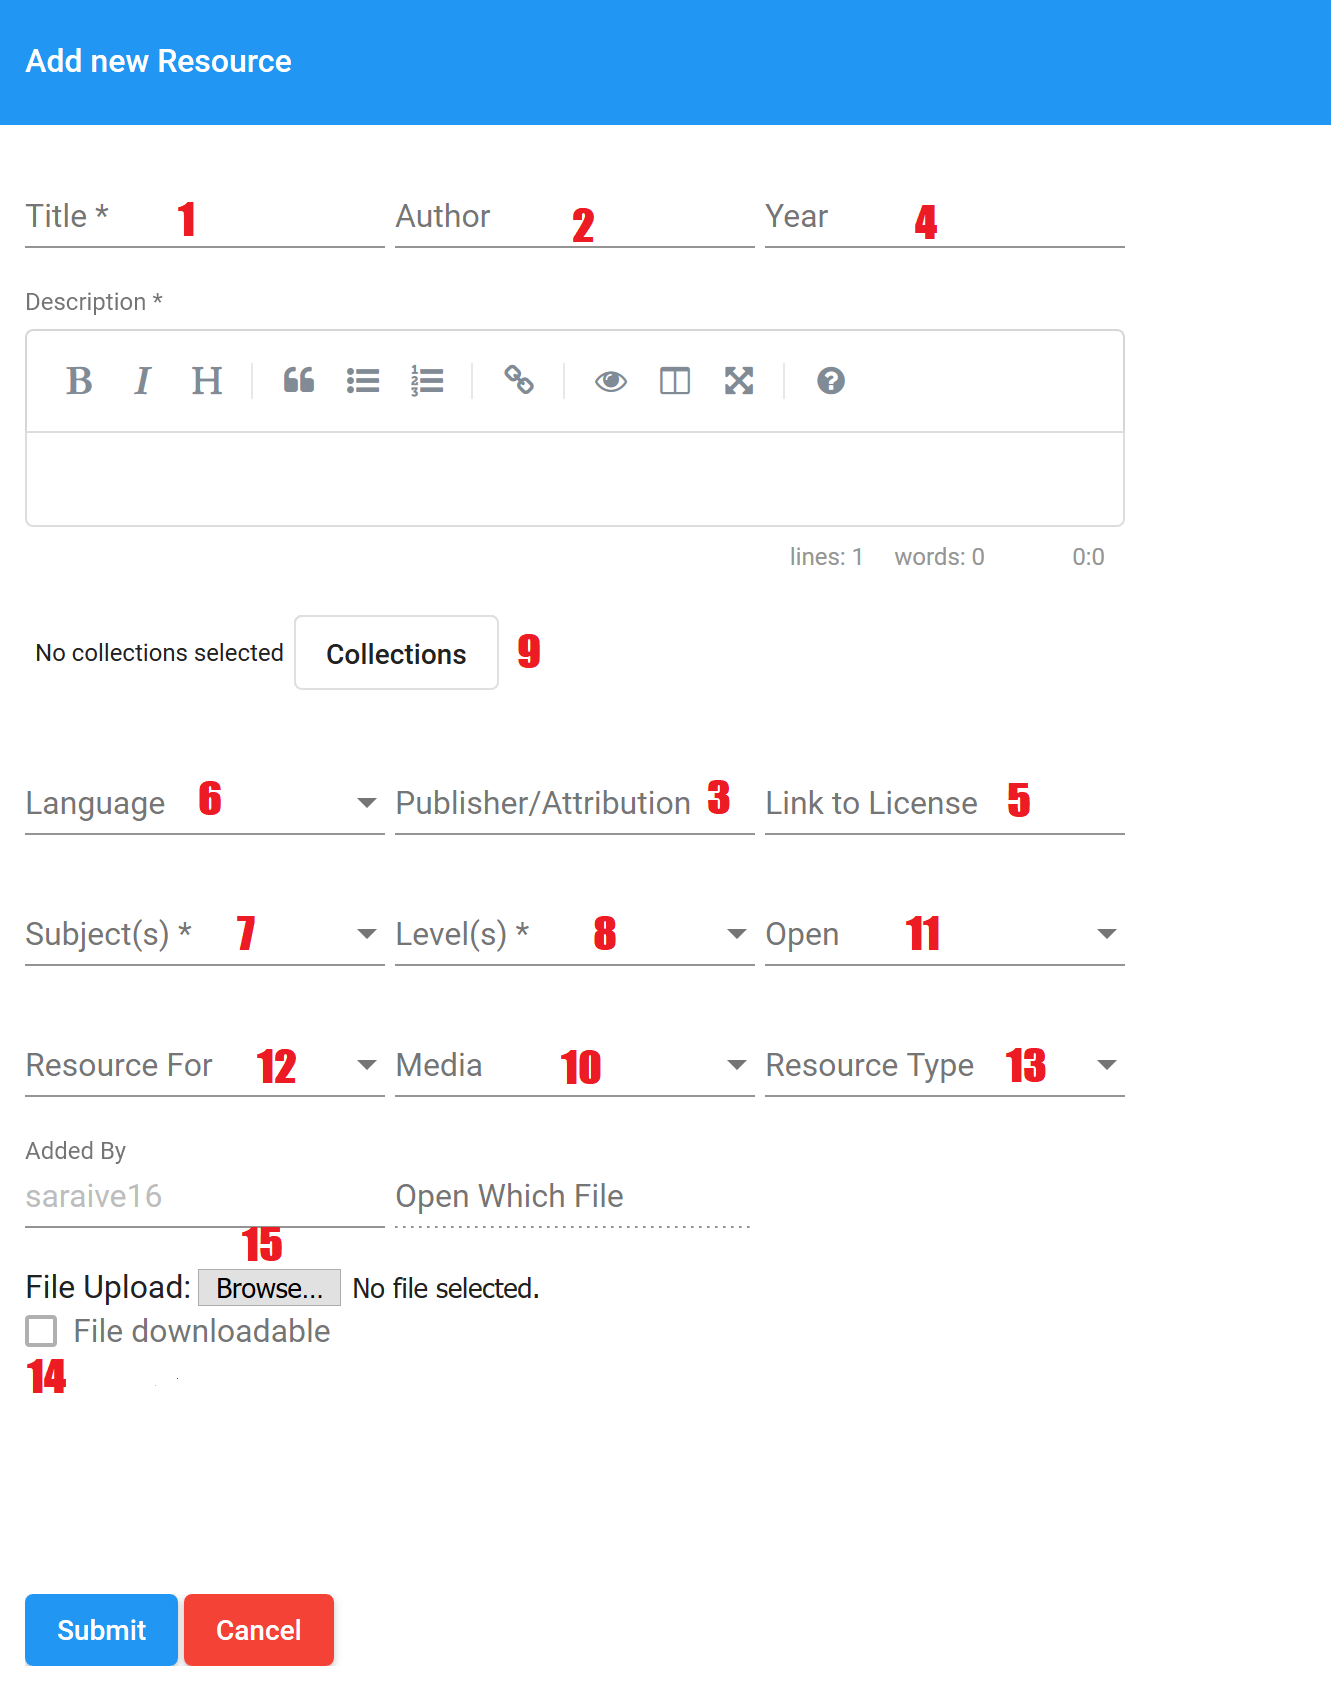
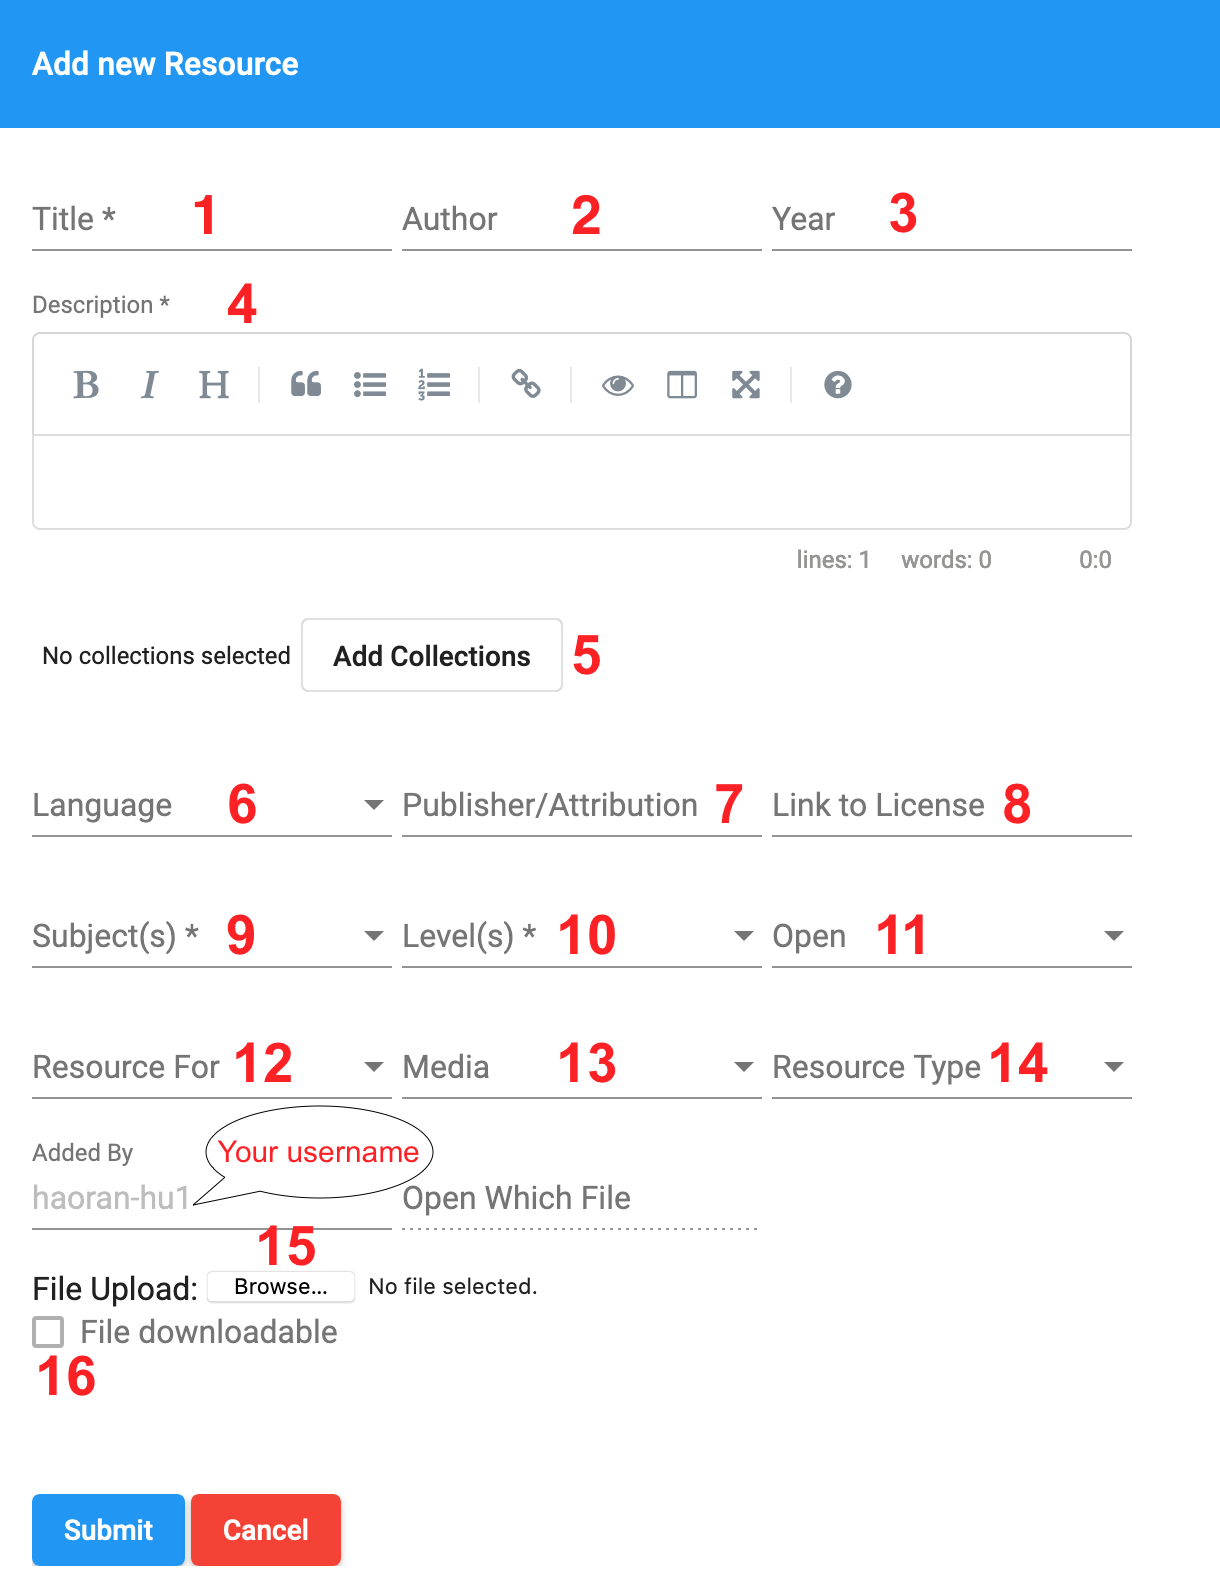
Update screenshot and corresponding content to match (fixes #2923)

diff --git a/pages/techgenius/tg-planet-user-manual.md b/pages/techgenius/tg-planet-user-manual.md
@@ -151,41 +151,42 @@ A collection is a group of Resources based on topic/subject and intended use. Pl
           a. A Tale of Two Cities
           b. A Tale of Two Cities (Spanish)
 
-2. Type the name of Author(s)/Editor. Authors should be listed as follows: “FIRST NAME, LAST NAME.” Illustrators, editors, translators, etc., should be identified in this section with their title in parentheses.
+2. Type the name of **_Author(s)/Editor_**. Authors should be listed as follows: “FIRST NAME, LAST NAME.” Illustrators, editors, translators, etc., should be identified in this section with their title in parentheses.
 
           a. John Doe
           b. Jane Doe (Translator)
 
+3. If available, type the **_Year_** in which the Resource was published.  
 
-3. **_Publisher/Attribution_** is mandatory for copyright purposes.  Please do not leave this field blank.  Type the name of the organization or publisher (and any websites associated with the Resource, if applicable).  Attribution allows OLE to use the source under Creative Commons or copyright and protects us from violating copyright laws.
+4. Add a **_description_** for the resource in the text area if applicable.  
 
-4. If available, type the **_Year_** in which the Resource was published.
-
-5. **_Link to License_** is also mandatory for copyright purposes. Locate the copyright information for the Resource. If it has a Creative Commons license, locate the correct license from the Creative Commons website and paste the URL in the Link to License field. Type “Public Domain” if the Resource is in the public domain.
+5. You may choose a **_Collection_** in which to place your Resource. Collections are more narrow than subjects in their scope. In many cases, you may find a Collection name that already exists and best fits your Resource. Use the search bar at the top of the drop down list to search for relevant Collections. If the Resource fits into more than one Collection, choose more than one. The “Add New” button next to Collection should be used only if a relevant existing Collection cannot be found. In most cases, Learners will not need to add new Collections.  
 
 6. In the **_Language field_**, choose the language of the Resource. If the Resource is a multilingual document, choose the language that you think is the primary or most applicable language.
 
-7. Choose one **_Subject_** from the drop down list that your Resource fits into. Subjects are broad and general so you may not find an exact match.
+7. **_Publisher/Attribution_** is mandatory for copyright purposes.  Please do not leave this field blank.  Type the name of the organization or publisher (and any websites associated with the Resource, if applicable).  Attribution allows OLE to use the source under Creative Commons or copyright and protects us from violating copyright laws.  
 
-8. Select at least one **_Level_** from the drop down list to assign to your Resource. Levels refer to the reading level required to be able to understand this Resource. You may choose multiple levels, but please ensure they actually apply to the reading level of the Resource.
+8. **_Link to License_** is also mandatory for copyright purposes. Locate the copyright information for the Resource. If it has a Creative Commons license, locate the correct license from the Creative Commons website and paste the URL in the Link to License field. Type “Public Domain” if the Resource is in the public domain.  
 
-9. You may choose a **_Collection_** in which to place your Resource. Collections are more narrow than subjects in their scope. In many cases, you may find a Collection name that already exists and best fits your Resource. Use the search bar at the top of the drop down list to search for relevant Collections. If the Resource fits into more than one Collection, choose more than one. The “Add New” button next to Collection should be used only if a relevant existing Collection cannot be found. In most cases, Learners will not need to add new Collections.
+9. Choose one **_Subject_** from the drop down list that your Resource fits into. Subjects are broad and general so you may not find an exact match.  
 
-10. Choose the **_Media_** for your Resource: Text, Graphic/Pictures, Audio/Music/Book, or Video. If you are unsure, leave this tab on the default Text.
+10. Select at least one **_Level_** from the drop down list to assign to your Resource. Levels refer to the reading level required to be able to understand this Resource. You may choose multiple levels, but please ensure they actually apply to the reading level of the Resource.  
 
-11. The **_Open_** field relates to the medium of the Resource. Select the corresponding medium in this field.
+11. The **_Open_** field relates to the medium of the Resource. Examples are shown below.
 
           a. A Resource with a .PDF extension has PDF format.
           b. A .mp3 is Audio (MP3) format.
           c. A .mp4 or .flv is Video (MP4, FLV) format. NOTE: If the video does not play when MP4 is selected then try changing this field to FLV and playing the video.
 
-12. In the **_Resource For_** field choose Learner or Leader. If appropriate for both, choose Learner.
+12. In the **_Resource For_** field choose Learner or Leader. If appropriate for both, choose Learner.  
 
-13. Choose **_Resource Type_** to select which kind of Resource you are uploading: Textbook, Lesson Plan, Activities, Exercises, or Discussion Questions. If your Resource does not seem to fit any of these categories, leave this tab on the default Textbook setting.
+13. Choose the **_Media_** for your Resource: Text, Graphic/Pictures, Audio/Music/Book, or Video. If you are unsure, leave this tab on the default Text.  
 
-14. With **_Open URL_**, you have the option of using a URL to open the Resource if applicable. For most Resources, this can be left blank.
+14. Choose the **_Resource Type_** to select which kind of Resource you are uploading: Textbook, Lesson Plan, Activities, Exercises, or Discussion Questions. If your Resource does not seem to fit any of these categories, leave this tab on the default Textbook setting.  
 
-15. Use **_Upload Resources_** and the **_Browse_** button to locate your Resource and upload it. Select the **_Browse_** button and locate your file. When you have found it, select Open. Double check all the fields to ensure they are correct and then select Save.
+15. Select the **_Browse_** button and locate your file. When you have found it, select Open. Double check all the fields to ensure they are correct and then select Save.  
+
+16. Check the **_File downloadable_** if you want to make the file downloadable.
 
 You will be taken to a loading screen while your Resource is uploaded into the Library. When the upload is complete, you will receive a confirmation for a successful upload.
 
